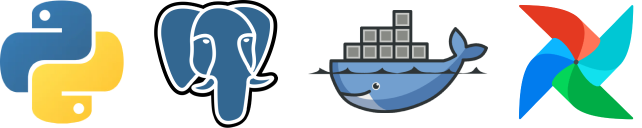
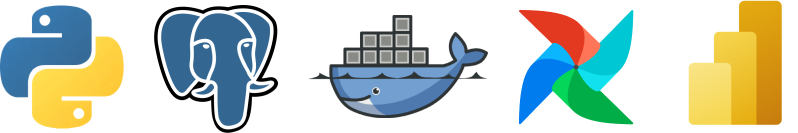
upd: main README file

diff --git a/README.md b/README.md
@@ -27,6 +27,8 @@ This project created for work with different **russian** web stores. In project,
     * **Removing data of products that's does not exist already**
     * **Creating tables**
 
+* Presentation-report with data from DB in Power BI
+
 ## Main technology stack
 
 <p align="center">
@@ -97,6 +99,11 @@ This project created for work with different **russian** web stores. In project,
 </p>
 
 ## Project structure
+
+* [**bi**](bi) - The folder with BI part of project.
+  * [**queries**](bi/queries.sql) - File with SQL commands that using in Power BI file.
+  * [**report-analyse**](bi/report-analys.pbix) - Power BI file with report-presentation.
+
 
 * [**dags**](dags) - The folder with Airflow DAGs.
     * [**add**](dags/add) - The folder with DAGs that make functional of adding new data in database.
